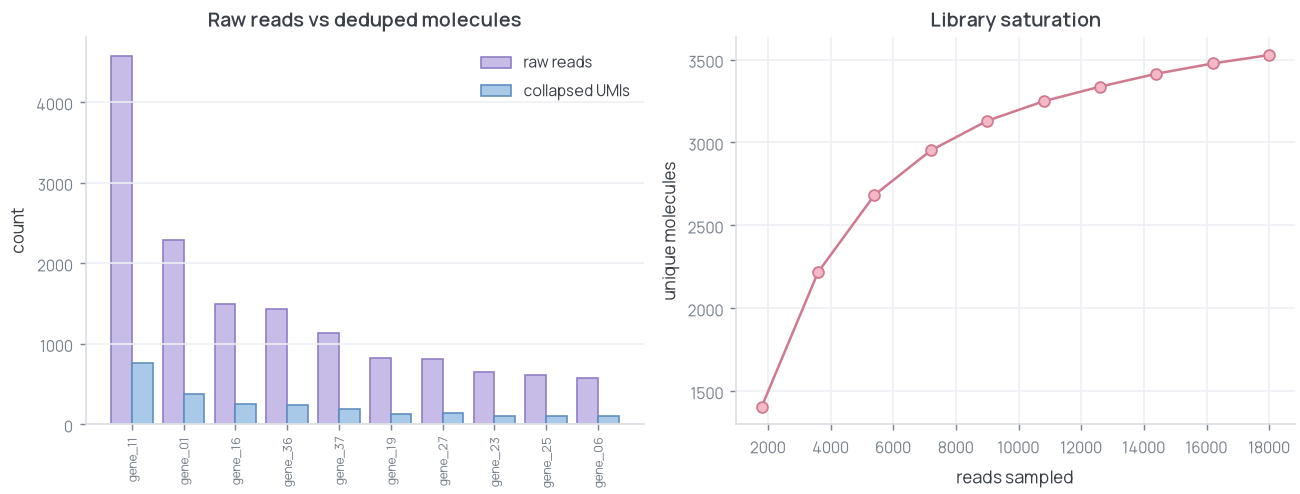
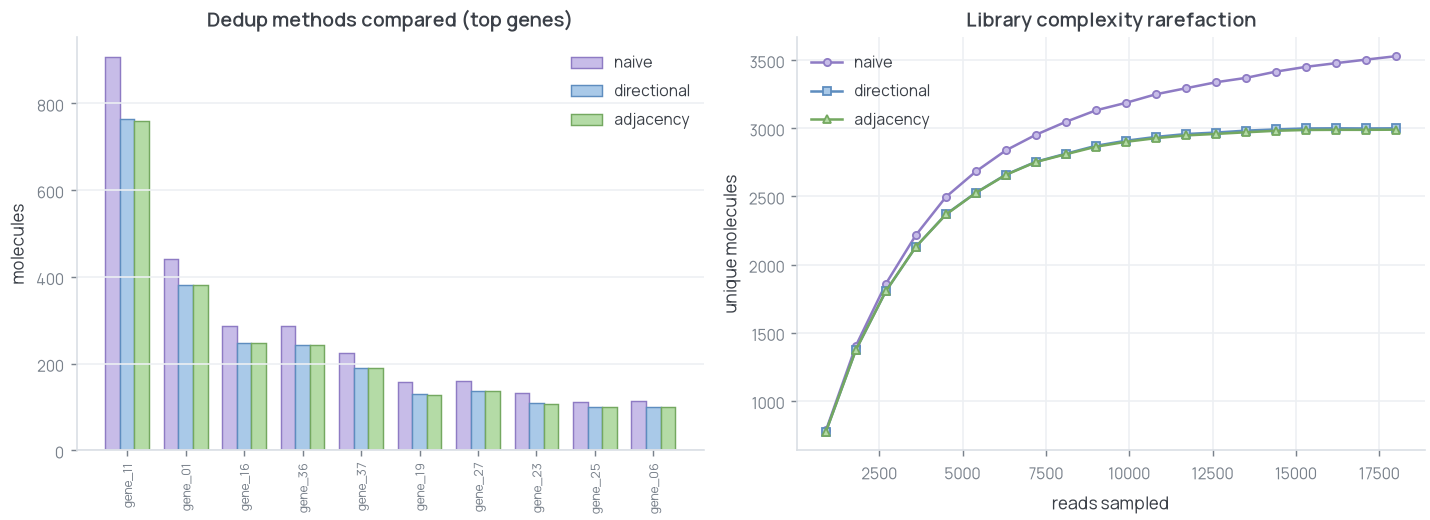
umi-dedup: add adjacency method + library-complexity rarefaction
Three dedup methods compared: naive, directional, adjacency (UMI-tools
style). Rarefaction curve shows the three diverge at depth. Per-gene
bar chart now shows all three side by side.

diff --git a/umi-dedup/analyze.py b/umi-dedup/analyze.py
@@ -1,9 +1,13 @@
 #!/usr/bin/env python3
-"""UMI dedup QC: raw reads vs collapsed molecules, duplication rate, saturation.
+"""UMI dedup QC: three methods compared + library-complexity rarefaction.
 
-Collapsing uses a simple 1-mismatch directional merge within each gene: UMIs
-within Hamming distance 1 are folded into the more abundant UMI. This recovers
-true molecule counts from PCR-amplified, error-containing reads.
+Dedup methods:
+  1. Naive - unique (gene, UMI) pairs
+  2. Directional - 1-mismatch merge, high-count parent absorbs low-count child
+  3. Adjacency - 1-mismatch connected-component merge (UMI-tools-style)
+
+The three diverge: naive overcounts (seq errors mint false UMIs), directional
+is conservative, adjacency merges more aggressively.
 """
 import numpy as np
 import pandas as pd
@@ -17,8 +21,8 @@ def hamming1(a, b):
     return sum(x != y for x, y in zip(a, b)) == 1
 
 
-def collapse_gene(umi_counts):
-    """Directional 1-mismatch collapse. umi_counts: dict umi->count. Returns #molecules."""
+def collapse_directional(umi_counts):
+    """Directional 1-mismatch collapse. Returns #molecules."""
     umis = sorted(umi_counts, key=lambda u: -umi_counts[u])
     parent = {u: u for u in umis}
 
@@ -30,9 +34,33 @@ def collapse_gene(umi_counts):
     for a, b in combinations(umis, 2):
         if hamming1(a, b):
             hi, lo = (a, b) if umi_counts[a] >= umi_counts[b] else (b, a)
-            # only merge low-count child into higher-count parent (directional)
             if umi_counts[hi] >= 2 * umi_counts[lo] - 1:
                 parent[find(lo)] = find(hi)
+    return len({find(u) for u in umis})
+
+
+def collapse_adjacency(umi_counts):
+    """Adjacency 1-mismatch collapse (UMI-tools style). Returns #molecules.
+
+    Any two UMIs within Hamming distance 1 are merged into the same component,
+    regardless of count ratio. More aggressive than directional.
+    """
+    umis = list(umi_counts.keys())
+    parent = {u: u for u in umis}
+
+    def find(u):
+        while parent[u] != u:
+            parent[u] = parent[parent[u]]; u = parent[u]
+        return u
+
+    def union(a, b):
+        ra, rb = find(a), find(b)
+        if ra != rb:
+            parent[ra] = rb
+
+    for a, b in combinations(umis, 2):
+        if hamming1(a, b):
+            union(a, b)
     return len({find(u) for u in umis})
 
 
@@ -41,36 +69,47 @@ def main():
     total_reads = len(reads)
 
     raw = reads.groupby("gene").size().rename("raw_reads")
-    # naive dedup = unique (gene, umi)
     naive = reads.drop_duplicates(["gene", "umi"]).groupby("gene").size().rename("naive_umi")
-    # 1-mismatch collapsed
-    coll = {}
-    for gene, g in reads.groupby("gene"):
-        coll[gene] = collapse_gene(g.umi.value_counts().to_dict())
-    coll = pd.Series(coll, name="collapsed_umi")
 
-    tab = pd.concat([raw, naive, coll], axis=1).fillna(0).astype(int).sort_values("raw_reads", ascending=False)
-    dup_rate = 1 - tab.collapsed_umi.sum() / total_reads
+    dir_coll, adj_coll = {}, {}
+    for gene, g in reads.groupby("gene"):
+        uc = g.umi.value_counts().to_dict()
+        dir_coll[gene] = collapse_directional(uc)
+        adj_coll[gene] = collapse_adjacency(uc)
+    dir_s = pd.Series(dir_coll, name="directional_umi")
+    adj_s = pd.Series(adj_coll, name="adjacency_umi")
+
+    tab = pd.concat([raw, naive, dir_s, adj_s], axis=1).fillna(0).astype(int)
+    tab = tab.sort_values("raw_reads", ascending=False)
+    dup_rate = 1 - tab.directional_umi.sum() / total_reads
 
     print("\n=== UMI dedup QC (synthetic) ===")
-    print(f"Total reads:           {total_reads}")
-    print(f"Naive-unique molecules:{tab.naive_umi.sum()}")
-    print(f"Collapsed molecules:   {tab.collapsed_umi.sum()}   (1-mismatch merge)")
-    print(f"Duplication rate:      {dup_rate:.1%}")
+    print(f"Total reads:              {total_reads}")
+    print(f"Naive-unique molecules:   {tab.naive_umi.sum()}")
+    print(f"Directional (1-mm):       {tab.directional_umi.sum()}")
+    print(f"Adjacency (1-mm):         {tab.adjacency_umi.sum()}")
+    print(f"Duplication rate (dir):    {dup_rate:.1%}")
     print("\nTop genes:")
     print(tab.head(8).to_string())
 
-    # saturation: unique molecules vs reads subsampled
+    # library-complexity rarefaction: subsample reads, count molecules by each method
     order = reads.sample(frac=1, random_state=3).reset_index(drop=True)
-    depths = np.linspace(0.1, 1.0, 10)
+    depths = np.linspace(0.05, 1.0, 20)
     sat = []
     for d in depths:
-        sub = order.iloc[: int(d * total_reads)]
-        mols = sub.drop_duplicates(["gene", "umi"]).shape[0]
-        sat.append((int(d * total_reads), mols))
-    pd.DataFrame(sat, columns=["reads", "molecules"]).to_csv(DATA / "saturation.tsv", sep="\t", index=False)
+        n = int(d * total_reads)
+        sub = order.iloc[:n]
+        n_naive = sub.drop_duplicates(["gene", "umi"]).shape[0]
+        n_dir, n_adj = 0, 0
+        for _, g in sub.groupby("gene"):
+            uc = g.umi.value_counts().to_dict()
+            n_dir += collapse_directional(uc)
+            n_adj += collapse_adjacency(uc)
+        sat.append((n, n_naive, n_dir, n_adj))
+    sat_df = pd.DataFrame(sat, columns=["reads", "naive", "directional", "adjacency"])
+    sat_df.to_csv(DATA / "saturation.tsv", sep="\t", index=False)
     tab.to_csv(DATA / "counts.tsv", sep="\t")
-    print(f"\nwrote {DATA/'counts.tsv'} and {DATA/'saturation.tsv'}")
+    print(f"\nwrote {DATA / 'counts.tsv'} and {DATA / 'saturation.tsv'}")
 
 
 if __name__ == "__main__":

diff --git a/umi-dedup/plots.py b/umi-dedup/plots.py
@@ -1,5 +1,9 @@
 #!/usr/bin/env python3
-"""Plots for the UMI dedup demo (writes assets/umi_qc.png)."""
+"""Plots for the UMI dedup demo (writes assets/umi_qc.png).
+
+Two panels: per-gene bar chart (three methods) + rarefaction curve showing
+naive / directional / adjacency diverge.
+"""
 import sys
 from pathlib import Path
 sys.path.insert(0, str(Path(__file__).resolve().parents[1]))
@@ -16,19 +20,35 @@ def main():
     counts = pd.read_csv(DATA / "counts.tsv", sep="\t", index_col=0).head(10)
     sat = pd.read_csv(DATA / "saturation.tsv", sep="\t")
 
-    fig, ax = plt.subplots(1, 2, figsize=(10, 3.8))
+    fig, ax = plt.subplots(1, 2, figsize=(11, 4))
+
+    # per-gene bar chart: three methods
     x = range(len(counts))
-    ax[0].bar([i - 0.2 for i in x], counts.raw_reads, width=0.4, label="raw reads",
-              color=S.PALETTE["lav"], edgecolor=S.OUTLINE["lav"], linewidth=0.9)
-    ax[0].bar([i + 0.2 for i in x], counts.collapsed_umi, width=0.4, label="collapsed UMIs",
-              color=S.PALETTE["blue"], edgecolor=S.OUTLINE["blue"], linewidth=0.9)
-    ax[0].set(title="Raw reads vs deduped molecules", ylabel="count", xticks=list(x))
+    w = 0.25
+    ax[0].bar([i - w for i in x], counts.naive_umi, width=w, label="naive",
+              color=S.PALETTE["lav"], edgecolor=S.OUTLINE["lav"], linewidth=0.8)
+    ax[0].bar(list(x), counts.directional_umi, width=w, label="directional",
+              color=S.PALETTE["blue"], edgecolor=S.OUTLINE["blue"], linewidth=0.8)
+    ax[0].bar([i + w for i in x], counts.adjacency_umi, width=w, label="adjacency",
+              color=S.PALETTE["green"], edgecolor=S.OUTLINE["green"], linewidth=0.8)
+    ax[0].set(title="Dedup methods compared (top genes)", ylabel="molecules",
+              xticks=list(x))
     ax[0].set_xticklabels(counts.index, rotation=90, fontsize=7)
     ax[0].grid(axis="x", visible=False); ax[0].legend()
 
-    ax[1].plot(sat.reads, sat.molecules, marker="o", color=S.OUTLINE["pink"],
-               markerfacecolor=S.PALETTE["pink"], markeredgecolor=S.OUTLINE["pink"], markersize=6)
-    ax[1].set(title="Library saturation", xlabel="reads sampled", ylabel="unique molecules")
+    # rarefaction / complexity curve
+    ax[1].plot(sat.reads, sat.naive, marker="o", markersize=4,
+               color=S.OUTLINE["lav"], markerfacecolor=S.PALETTE["lav"],
+               markeredgecolor=S.OUTLINE["lav"], label="naive")
+    ax[1].plot(sat.reads, sat.directional, marker="s", markersize=4,
+               color=S.OUTLINE["blue"], markerfacecolor=S.PALETTE["blue"],
+               markeredgecolor=S.OUTLINE["blue"], label="directional")
+    ax[1].plot(sat.reads, sat.adjacency, marker="^", markersize=4,
+               color=S.OUTLINE["green"], markerfacecolor=S.PALETTE["green"],
+               markeredgecolor=S.OUTLINE["green"], label="adjacency")
+    ax[1].set(title="Library complexity rarefaction",
+              xlabel="reads sampled", ylabel="unique molecules")
+    ax[1].legend()
 
     out = ASSETS / "umi_qc.png"; fig.savefig(out)
     print("wrote", out)